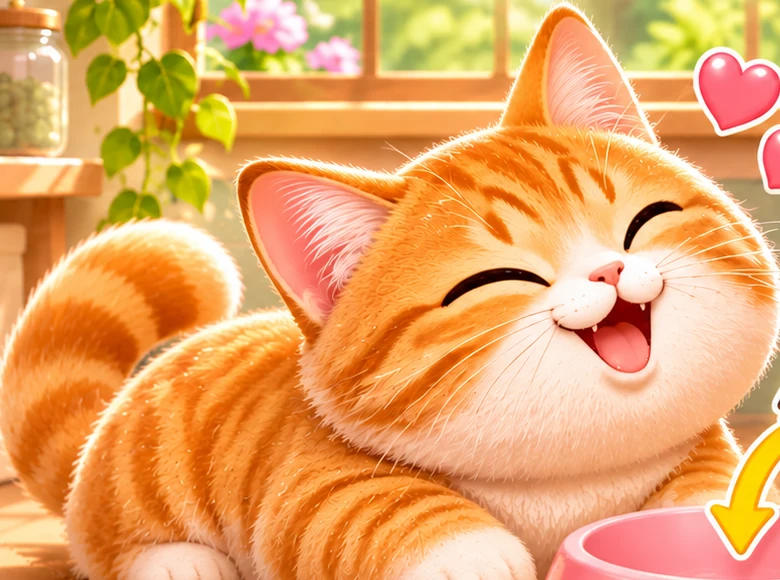
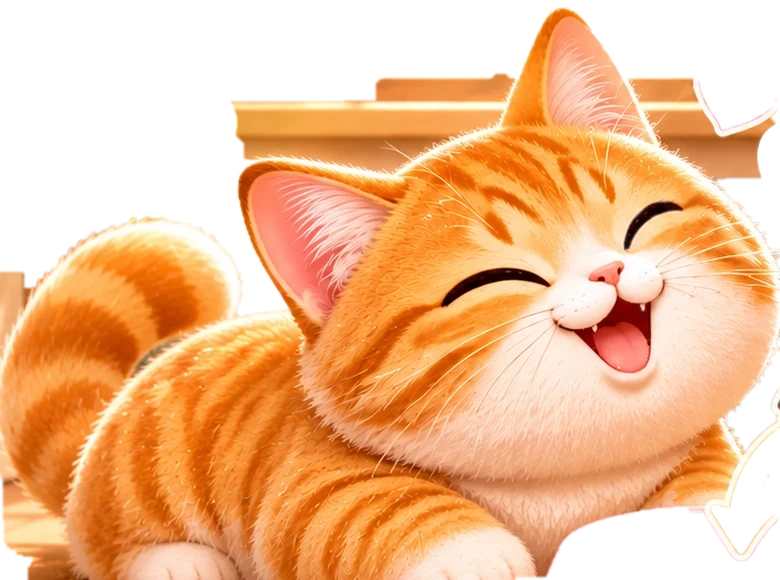
Add files via upload

diff --git a/play/youyou-food/index.html b/play/youyou-food/index.html
@@ -13,14 +13,24 @@
  .options{grid-template-columns:repeat(3,minmax(0,1fr));grid-template-rows:repeat(2,minmax(0,1fr));height:auto;grid-auto-rows:auto}
  .option{aspect-ratio:1.1;height:auto;min-height:0;padding:4px}
 }
-</style></head><body><main class="wrap"><div class="shell"><header class="hero"><div><h1>右右吃飯</h1><p>聽題目・找食物・餵右右</p></div><span class="stars" id="score">★ 0 / 6</span></header><div class="nav"><a class="back" href="/rooms.html?room=dining">← 回餐廳</a><button id="speak" class="listen" type="button">聽題目</button></div><div class="track" id="track"></div><div class="prompt"><strong id="question">右右想找食物，請幫忙！</strong></div><div id="game"><div class="board"><div class="scene" id="scene"><div class="status" id="status" role="status" aria-live="polite">聽題目，再選食物</div><img class="cat" id="cat" alt="右右，圓潤的橘色虎斑貓，沒有項圈和鈴鐺" src="/assets/youyou-food/youyou.webp"><div class="bowl" id="bowl" role="button" tabindex="0" aria-label="右右的食物碗，點一下送出已選的食物"></div></div><div class="options" id="options"></div></div></div><p class="tip" id="tip">點選食物，再點食物碗；也可以拖曳進碗裡。</p><div class="buttons"><button type="button" class="next" id="next" disabled>下一關 ▶</button><button type="button" class="again" id="again">從頭再玩</button></div></div><p class="note">這是辨認食物的遊戲。真實餵食以適合貓咪的完整均衡飼料為主；整隻帶骨魚、整雞、玉米、香蕉等不應直接讓孩子拿來餵貓。</p></main><script>
-(()=>{'use strict';const $=id=>document.getElementById(id),food=[['fish','魚'],['chicken','雞'],['corn','玉米'],['carrot','紅蘿蔔'],['banana','香蕉'],['apple','蘋果']],base='/assets/youyou-food/';let round=0,done=0,selected=null,locked=false,wrong=0;const bowl=$('bowl'),cat=$('cat'),status=$('status');const routeIds=food.map(x=>x[0]);
+
+/* 20261120 Premium transparent item cards and separate cat layer. */
+.scene{background:radial-gradient(ellipse at 48% 17%,#fff9db 0%,#ffedce 55%,#ebc4a3 100%);isolation:isolate}
+.scene:before{width:94%;height:108px;left:3%;bottom:-30px;background:linear-gradient(180deg,#e7b57a,#dca771);filter:blur(8px)}
+.cat{left:0;bottom:15%;height:76%;width:82%;object-position:center bottom;z-index:1}
+.bowl{left:53%;bottom:8%;width:37%;height:25%;z-index:3}
+.option{background:linear-gradient(145deg,#fffdf4,#fff2e2);outline-color:#f0ddc9;box-shadow:0 5px 13px #a5743820}
+.option img{width:91%;height:91%;object-fit:contain;border-radius:0;filter:drop-shadow(0 4px 4px #865a3624)}
+.option.selected{background:#effaf0;outline-color:#57b47c}
+@media(max-width:650px){.cat{height:76%;width:80%;bottom:16%}.bowl{left:55%;bottom:7%;width:38%;height:25%}.option img{width:96%;height:96%}}
+</style></head><body><main class="wrap"><div class="shell"><header class="hero"><div><h1>右右吃飯</h1><p>聽題目・找食物・餵右右</p></div><span class="stars" id="score">★ 0 / 6</span></header><div class="nav"><a class="back" href="/rooms.html?room=dining">← 回餐廳</a><button id="speak" class="listen" type="button">聽題目</button></div><div class="track" id="track"></div><div class="prompt"><strong id="question">右右想找食物，請幫忙！</strong></div><div id="game"><div class="board"><div class="scene" id="scene"><div class="status" id="status" role="status" aria-live="polite">聽題目，再選食物</div><img class="cat" id="cat" alt="右右，圓潤的橘色虎斑貓，沒有項圈和鈴鐺" src="/assets/youyou-food/youyou.webp?v=premium-v3"><div class="bowl" id="bowl" role="button" tabindex="0" aria-label="右右的食物碗，點一下送出已選的食物"></div></div><div class="options" id="options"></div></div></div><p class="tip" id="tip">點選食物，再點食物碗；也可以拖曳進碗裡。</p><div class="buttons"><button type="button" class="next" id="next" disabled>下一關 ▶</button><button type="button" class="again" id="again">從頭再玩</button></div></div><p class="note">這是辨認食物的遊戲。真實餵食以適合貓咪的完整均衡飼料為主；整隻帶骨魚、整雞、玉米、香蕉等不應直接讓孩子拿來餵貓。</p></main><script>
+(()=>{'use strict';const $=id=>document.getElementById(id),food=[['fish','魚'],['chicken','雞'],['corn','玉米'],['carrot','紅蘿蔔'],['banana','香蕉'],['apple','蘋果']],base='/assets/youyou-food/';let round=0,done=0,selected=null,locked=false,wrong=0;const bowl=$('bowl'),cat=$('cat'),status=$('status');const routeIds=food.map(x=>x[0]);const artVersion='?v=premium-v3';
 function say(v){if(!('speechSynthesis'in window))return;speechSynthesis.cancel();const u=new SpeechSynthesisUtterance(v);u.lang='zh-TW';u.rate=.94;u.pitch=1.16;const voices=speechSynthesis.getVoices();u.voice=voices.find(x=>/zh[-_]TW/i.test(x.lang))||voices.find(x=>/^zh/i.test(x.lang))||null;speechSynthesis.speak(u)}
 function sound(){try{const ctx=new(window.AudioContext||window.webkitAudioContext)(),o=ctx.createOscillator(),g=ctx.createGain(),t=ctx.currentTime;o.connect(g);g.connect(ctx.destination);o.frequency.setValueAtTime(520,t);o.frequency.exponentialRampToValueAtTime(850,t+.18);g.gain.setValueAtTime(.09,t);g.gain.exponentialRampToValueAtTime(.001,t+.35);o.start(t);o.stop(t+.35);setTimeout(()=>ctx.close(),700)}catch(e){}}
 function pop(v){const el=document.createElement('span');el.className='floating';el.textContent=v;el.style.left=(30+Math.random()*48)+'%';el.style.top=(27+Math.random()*26)+'%';$('scene').append(el);setTimeout(()=>el.remove(),980)}
 function prompt(){const target=food[round];return '右右想找'+target[1]+'。請找出'+target[1]+'，放進食物碗。'}
 function nextRound(){locked=false;selected=null;wrong=0;bowl.replaceChildren();bowl.classList.remove('ready');cat.classList.remove('eat','happy');$('next').disabled=true;status.textContent='選一張食物圖片';$('question').textContent='第 '+(round+1)+' 關：找出'+food[round][1]+'。';$('score').textContent='★ '+done+' / 6';$('track').innerHTML=food.map((_,i)=>'<span class="'+(i<round?'done':i===round?'current':'')+'"></span>').join('');const order=[...food];for(let i=order.length-1;i>0;i--){const j=Math.floor(Math.random()*(i+1));[order[i],order[j]]=[order[j],order[i]]}const box=$('options');box.replaceChildren();order.forEach(([id,name])=>{const b=document.createElement('button');b.type='button';b.className='option';b.dataset.id=id;b.setAttribute('aria-label','選擇'+name);b.innerHTML='<img src="'+base+id+'.webp" alt="'+name+'">';b.draggable=true;b.addEventListener('click',()=>choose(id,b));b.addEventListener('dragstart',e=>{e.dataTransfer.setData('text/plain',id);choose(id,b,false)});box.append(b)})}
 function choose(id,button,send=true){if(locked)return;if(id!==food[round][0]){wrong++;button.classList.add('wrong');setTimeout(()=>button.classList.remove('wrong'),450);status.textContent='再找找，聽一次題目吧！';if(wrong>1)say('再看看，請找'+food[round][1]);return;}selected=id;$('options').querySelectorAll('.option').forEach(b=>b.classList.toggle('selected',b.dataset.id===id));status.textContent='找到了！點碗把它送給右右';bowl.classList.add('ready');if(send){/* require second deliberate click on bowl, or drop */}}
-function deliver(id){if(locked)return;if(id!==food[round][0]){status.textContent='這個不是題目要找的食物，再試一次！';return;}selected=id;locked=true;const img=document.createElement('img');img.src=base+id+'.webp';img.alt=food[round][1];bowl.replaceChildren(img);cat.classList.remove('eat');void cat.offsetWidth;cat.classList.add('eat');for(let i=0;i<5;i++)setTimeout(()=>pop(['❤','✦','★'][i%3]),150*i);sound();done++;$('score').textContent='★ '+done+' / 6';$('track').children[round].className='done';status.textContent='太棒了，右右吃得好開心！';$('question').textContent='找到'+food[round][1]+'了！';$('next').disabled=false;$('next').textContent=round===5?'完成六關 ★':'下一關 ▶';say('答對了！找到'+food[round][1]+'了，右右好開心！')}
+function deliver(id){if(locked)return;if(id!==food[round][0]){status.textContent='這個不是題目要找的食物，再試一次！';return;}selected=id;locked=true;const img=document.createElement('img');img.src=base+id+'.webp'+artVersion;img.alt=food[round][1];bowl.replaceChildren(img);cat.classList.remove('eat');void cat.offsetWidth;cat.classList.add('eat');for(let i=0;i<5;i++)setTimeout(()=>pop(['❤','✦','★'][i%3]),150*i);sound();done++;$('score').textContent='★ '+done+' / 6';$('track').children[round].className='done';status.textContent='太棒了，右右吃得好開心！';$('question').textContent='找到'+food[round][1]+'了！';$('next').disabled=false;$('next').textContent=round===5?'完成六關 ★':'下一關 ▶';say('答對了！找到'+food[round][1]+'了，右右好開心！')}
 bowl.addEventListener('click',()=>{if(selected)deliver(selected);else status.textContent='先從右邊選一張圖片'});bowl.addEventListener('keydown',e=>{if(e.key==='Enter'||e.key===' '){e.preventDefault();if(selected)deliver(selected)}});bowl.addEventListener('dragover',e=>e.preventDefault());bowl.addEventListener('drop',e=>{e.preventDefault();const id=e.dataTransfer.getData('text/plain');deliver(id)});$('speak').addEventListener('click',()=>say(prompt()));$('next').addEventListener('click',()=>{if(!locked)return;if(round===5){$('game').innerHTML='<div class="end"><img src="'+base+'youyou.webp" alt="開心的橘貓右右"><h2>六關完成！★ ★ ★ ★ ★ ★</h2><p>右右謝謝你陪她玩！</p><button type="button" class="again" id="endAgain">再玩一次 ↻</button></div>';$('endAgain').onclick=()=>location.reload();$('next').hidden=true;$('question').textContent='完成任務！';$('score').textContent='★ 6 / 6';say('太棒了！六樣食物都認識了！');}else{round++;nextRound()}});$('again').onclick=()=>location.reload();document.addEventListener('visibilitychange',()=>{if(document.hidden&&'speechSynthesis'in window)speechSynthesis.cancel()});nextRound();})();
 </script></body></html>
